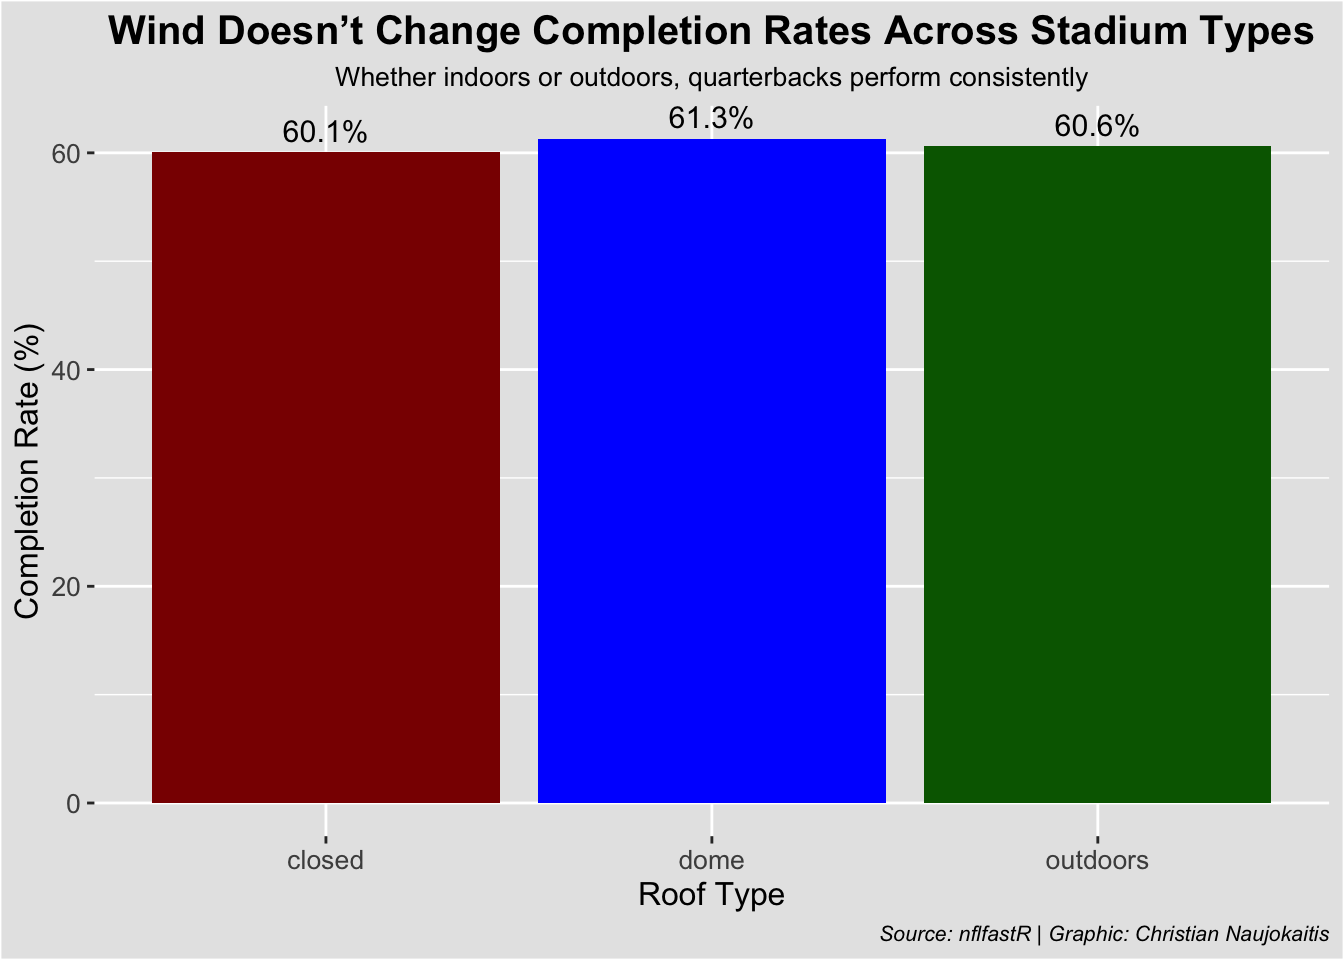
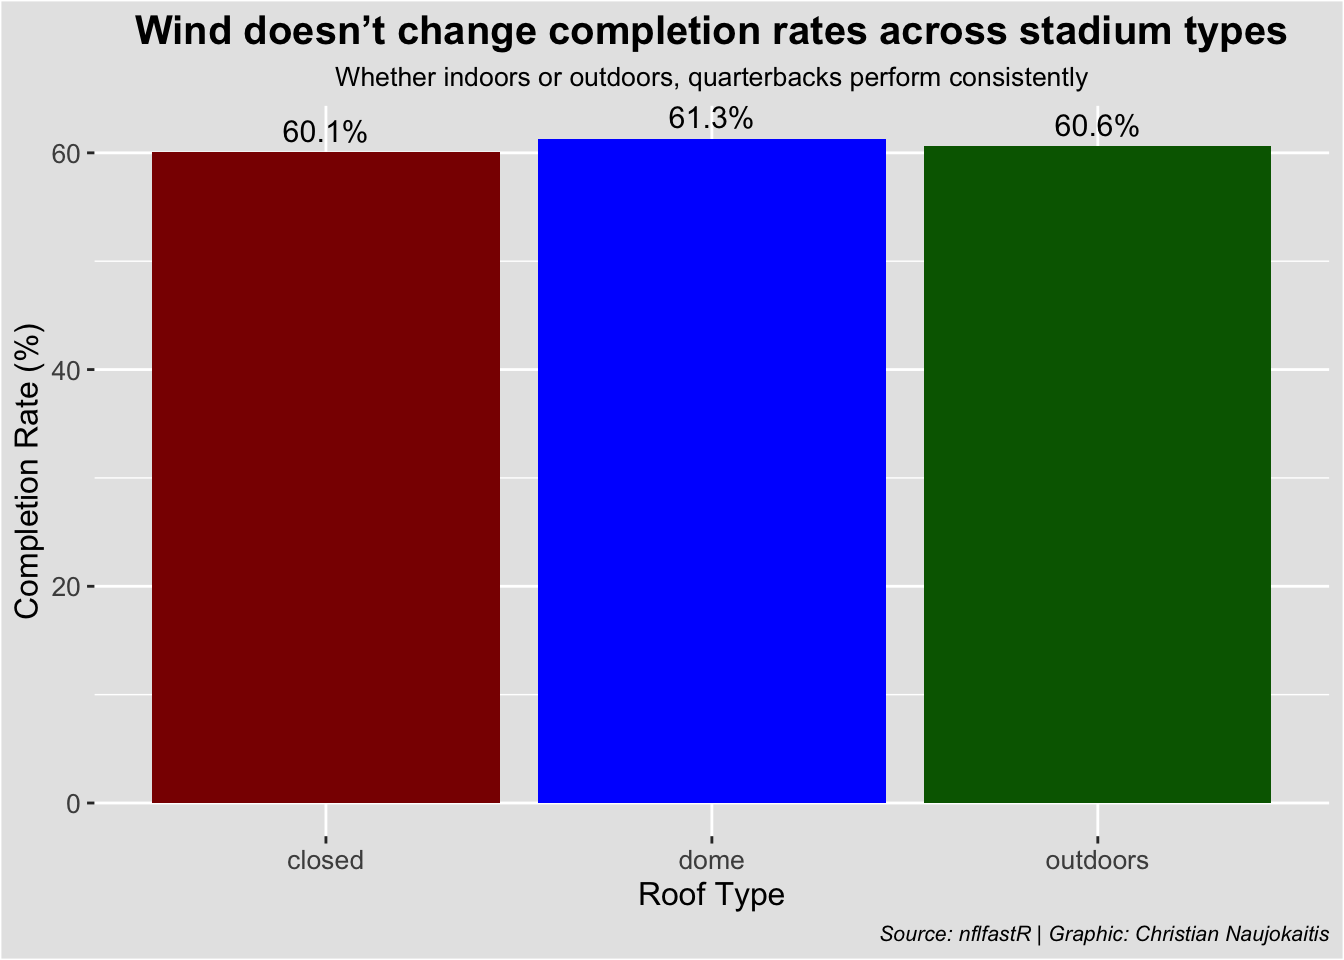
final

Changed region(s): [[0.0625, 0.0, 0.9688, 0.0625]]

diff --git a/posts/indoor-throwing-advantage/index.html b/posts/indoor-throwing-advantage/index.html
@@ -224,7 +224,7 @@ pre > code.sourceCode > span > a:first-child::before { text-decoration: underlin
 <span id="cb1-21"><a href="#cb1-21" aria-hidden="true" tabindex="-1"></a><span class="fu">ggplot</span>(completion_rate, <span class="fu">aes</span>(<span class="at">x =</span> roof, <span class="at">y =</span> completion_rate, <span class="at">fill =</span> roof)) <span class="sc">+</span></span>
 <span id="cb1-22"><a href="#cb1-22" aria-hidden="true" tabindex="-1"></a>  <span class="fu">geom_bar</span>(<span class="at">stat =</span> <span class="st">"identity"</span>, <span class="at">show.legend =</span> <span class="cn">FALSE</span>) <span class="sc">+</span></span>
 <span id="cb1-23"><a href="#cb1-23" aria-hidden="true" tabindex="-1"></a>  <span class="fu">labs</span>(</span>
-<span id="cb1-24"><a href="#cb1-24" aria-hidden="true" tabindex="-1"></a>    <span class="at">title =</span> <span class="st">"Wind Doesn’t Change Completion Rates Across Stadium Types"</span>, </span>
+<span id="cb1-24"><a href="#cb1-24" aria-hidden="true" tabindex="-1"></a>    <span class="at">title =</span> <span class="st">"Wind doesn’t change completion rates across stadium types"</span>, </span>
 <span id="cb1-25"><a href="#cb1-25" aria-hidden="true" tabindex="-1"></a>    <span class="at">subtitle =</span> <span class="st">"Whether indoors or outdoors, quarterbacks perform consistently"</span>,</span>
 <span id="cb1-26"><a href="#cb1-26" aria-hidden="true" tabindex="-1"></a>    <span class="at">x =</span> <span class="st">"Roof Type"</span>,</span>
 <span id="cb1-27"><a href="#cb1-27" aria-hidden="true" tabindex="-1"></a>    <span class="at">y =</span> <span class="st">"Completion Rate (%)"</span>,</span>
@@ -233,7 +233,7 @@ pre > code.sourceCode > span > a:first-child::before { text-decoration: underlin
 <span id="cb1-30"><a href="#cb1-30" aria-hidden="true" tabindex="-1"></a>  <span class="fu">geom_text</span>(</span>
 <span id="cb1-31"><a href="#cb1-31" aria-hidden="true" tabindex="-1"></a>    <span class="fu">aes</span>(<span class="at">label =</span> <span class="fu">sprintf</span>(<span class="st">"%.1f%%"</span>, completion_rate)), </span>
 <span id="cb1-32"><a href="#cb1-32" aria-hidden="true" tabindex="-1"></a>    <span class="at">vjust =</span> <span class="sc">-</span><span class="fl">0.5</span>, <span class="at">size =</span> <span class="dv">4</span></span>
-<span id="cb1-33"><a href="#cb1-33" aria-hidden="true" tabindex="-1"></a>  ) <span class="sc">+</span> <span class="co"># Labels</span></span>
+<span id="cb1-33"><a href="#cb1-33" aria-hidden="true" tabindex="-1"></a>  ) <span class="sc">+</span></span>
 <span id="cb1-34"><a href="#cb1-34" aria-hidden="true" tabindex="-1"></a> <span class="fu">theme</span>(</span>
 <span id="cb1-35"><a href="#cb1-35" aria-hidden="true" tabindex="-1"></a>  <span class="at">panel.background =</span> <span class="fu">element_rect</span>(<span class="at">fill =</span> <span class="st">"grey90"</span>), </span>
 <span id="cb1-36"><a href="#cb1-36" aria-hidden="true" tabindex="-1"></a>  <span class="at">plot.background =</span> <span class="fu">element_rect</span>(<span class="at">fill =</span> <span class="st">"grey90"</span>),</span>
@@ -269,7 +269,7 @@ pre > code.sourceCode > span > a:first-child::before { text-decoration: underlin
 <span id="cb2-7"><a href="#cb2-7" aria-hidden="true" tabindex="-1"></a><span class="fu">waffle</span>(</span>
 <span id="cb2-8"><a href="#cb2-8" aria-hidden="true" tabindex="-1"></a>  wi, </span>
 <span id="cb2-9"><a href="#cb2-9" aria-hidden="true" tabindex="-1"></a>  <span class="at">rows =</span> <span class="dv">25</span>, </span>
-<span id="cb2-10"><a href="#cb2-10" aria-hidden="true" tabindex="-1"></a>  <span class="at">title =</span> <span class="st">"Passing Takes a Hit on Windy Days"</span>,    </span>
+<span id="cb2-10"><a href="#cb2-10" aria-hidden="true" tabindex="-1"></a>  <span class="at">title =</span> <span class="st">"Passing takes a hit on windy days"</span>,    </span>
 <span id="cb2-11"><a href="#cb2-11" aria-hidden="true" tabindex="-1"></a>  <span class="at">xlab =</span> <span class="st">"1 square = 1 pass"</span>,                     </span>
 <span id="cb2-12"><a href="#cb2-12" aria-hidden="true" tabindex="-1"></a>  <span class="at">colors =</span> <span class="fu">c</span>(<span class="st">"black"</span>, <span class="st">"green"</span>)</span>
 <span id="cb2-13"><a href="#cb2-13" aria-hidden="true" tabindex="-1"></a>) <span class="sc">+</span></span>
@@ -295,13 +295,13 @@ pre > code.sourceCode > span > a:first-child::before { text-decoration: underlin
 <div class="sourceCode cell-code" id="cb3"><pre class="sourceCode r code-with-copy"><code class="sourceCode r"><span id="cb3-1"><a href="#cb3-1" aria-hidden="true" tabindex="-1"></a><span class="fu">waffle</span>(</span>
 <span id="cb3-2"><a href="#cb3-2" aria-hidden="true" tabindex="-1"></a>  nw, </span>
 <span id="cb3-3"><a href="#cb3-3" aria-hidden="true" tabindex="-1"></a>  <span class="at">rows =</span> <span class="dv">10</span>, </span>
-<span id="cb3-4"><a href="#cb3-4" aria-hidden="true" tabindex="-1"></a>  <span class="at">title =</span> <span class="st">"Clear Skies = More Throws"</span>,          </span>
+<span id="cb3-4"><a href="#cb3-4" aria-hidden="true" tabindex="-1"></a>  <span class="at">title =</span> <span class="st">"Clear skies = more throws"</span>,          </span>
 <span id="cb3-5"><a href="#cb3-5" aria-hidden="true" tabindex="-1"></a>  <span class="at">xlab =</span> <span class="st">"1 square = 100 passes"</span>,                 </span>
 <span id="cb3-6"><a href="#cb3-6" aria-hidden="true" tabindex="-1"></a>  <span class="at">colors =</span> <span class="fu">c</span>(<span class="st">"black"</span>, <span class="st">"green"</span>)</span>
 <span id="cb3-7"><a href="#cb3-7" aria-hidden="true" tabindex="-1"></a>) <span class="sc">+</span></span>
 <span id="cb3-8"><a href="#cb3-8" aria-hidden="true" tabindex="-1"></a>  <span class="fu">labs</span>(</span>
 <span id="cb3-9"><a href="#cb3-9" aria-hidden="true" tabindex="-1"></a>    <span class="at">subtitle =</span> <span class="st">"When wind is calm, quarterbacks throw passes at a much higher rate."</span>,</span>
-<span id="cb3-10"><a href="#cb3-10" aria-hidden="true" tabindex="-1"></a>    <span class="at">caption =</span> <span class="st">"Source: nflfastR | Graphic: Your Name Here"</span></span>
+<span id="cb3-10"><a href="#cb3-10" aria-hidden="true" tabindex="-1"></a>    <span class="at">caption =</span> <span class="st">"Source: nflfastR | Graphic: Christian Naujokaitis"</span></span>
 <span id="cb3-11"><a href="#cb3-11" aria-hidden="true" tabindex="-1"></a>  ) <span class="sc">+</span></span>
 <span id="cb3-12"><a href="#cb3-12" aria-hidden="true" tabindex="-1"></a>  <span class="fu">theme</span>(</span>
 <span id="cb3-13"><a href="#cb3-13" aria-hidden="true" tabindex="-1"></a>    <span class="at">plot.title =</span> <span class="fu">element_text</span>(<span class="at">size =</span> <span class="dv">16</span>, <span class="at">face =</span> <span class="st">"bold"</span>),</span>
@@ -337,11 +337,11 @@ pre > code.sourceCode > span > a:first-child::before { text-decoration: underlin
 <span id="cb4-12"><a href="#cb4-12" aria-hidden="true" tabindex="-1"></a>  <span class="fu">geom_point</span>(<span class="fu">aes</span>(<span class="at">color =</span> color), <span class="at">alpha =</span> <span class="fl">0.6</span>, <span class="at">show.legend =</span> <span class="cn">FALSE</span>) <span class="sc">+</span>  <span class="co"># Remove the color key</span></span>
 <span id="cb4-13"><a href="#cb4-13" aria-hidden="true" tabindex="-1"></a>  <span class="fu">scale_color_manual</span>(<span class="at">values =</span> <span class="fu">c</span>(<span class="st">"black"</span>, <span class="st">"red"</span>)) <span class="sc">+</span>  <span class="co"># Map the color</span></span>
 <span id="cb4-14"><a href="#cb4-14" aria-hidden="true" tabindex="-1"></a>  <span class="fu">labs</span>(</span>
-<span id="cb4-15"><a href="#cb4-15" aria-hidden="true" tabindex="-1"></a>    <span class="at">title =</span> <span class="st">"Wind Has a Major Impact on Deep Passing Yards"</span>,  </span>
+<span id="cb4-15"><a href="#cb4-15" aria-hidden="true" tabindex="-1"></a>    <span class="at">title =</span> <span class="st">"Wind has a major impact on deep passing yards"</span>,  </span>
 <span id="cb4-16"><a href="#cb4-16" aria-hidden="true" tabindex="-1"></a>    <span class="at">subtitle =</span> <span class="st">"Strong winds affect deep passes, but short throws remain mostly unaffected."</span>,</span>
 <span id="cb4-17"><a href="#cb4-17" aria-hidden="true" tabindex="-1"></a>    <span class="at">x =</span> <span class="st">"Wind Speed (mph)"</span>,</span>
 <span id="cb4-18"><a href="#cb4-18" aria-hidden="true" tabindex="-1"></a>    <span class="at">y =</span> <span class="st">"Passing Yards"</span>,</span>
-<span id="cb4-19"><a href="#cb4-19" aria-hidden="true" tabindex="-1"></a>    <span class="at">caption =</span> <span class="st">"Source: nflfastR | Graphic: Your Name Here"</span>  </span>
+<span id="cb4-19"><a href="#cb4-19" aria-hidden="true" tabindex="-1"></a>    <span class="at">caption =</span> <span class="st">"Source: nflfastR | Graphic: Christian Naujokaitis"</span>  </span>
 <span id="cb4-20"><a href="#cb4-20" aria-hidden="true" tabindex="-1"></a>  ) <span class="sc">+</span></span>
 <span id="cb4-21"><a href="#cb4-21" aria-hidden="true" tabindex="-1"></a>  <span class="fu">theme_minimal</span>() <span class="sc">+</span></span>
 <span id="cb4-22"><a href="#cb4-22" aria-hidden="true" tabindex="-1"></a>  <span class="fu">theme</span>(</span>

diff --git a/index.html b/index.html
@@ -210,7 +210,7 @@ window.Quarto = {
 
 <div class="quarto-listing quarto-listing-container-default" id="listing-listing">
 <div class="list quarto-listing-default">
-<div class="quarto-post image-right" data-index="0" data-categories="cXVhcnRlcmJhY2tzJTJDY29tcGxldGlvbiUyQ25mbA==" data-listing-date-sort="1743483600000" data-listing-file-modified-sort="1744324410373" data-listing-date-modified-sort="NaN" data-listing-reading-time-sort="6" data-listing-word-count-sort="1157">
+<div class="quarto-post image-right" data-index="0" data-categories="cXVhcnRlcmJhY2tzJTJDY29tcGxldGlvbiUyQ25mbA==" data-listing-date-sort="1743483600000" data-listing-file-modified-sort="1744325608984" data-listing-date-modified-sort="NaN" data-listing-reading-time-sort="6" data-listing-word-count-sort="1153">
 <div class="thumbnail">
 <p><a href="./posts/indoor-throwing-advantage/index.html" class="no-external"></a></p><a href="./posts/indoor-throwing-advantage/index.html" class="no-external">
 <p><img loading="lazy" src="./posts/indoor-throwing-advantage/image.png" class="thumbnail-image"></p>
